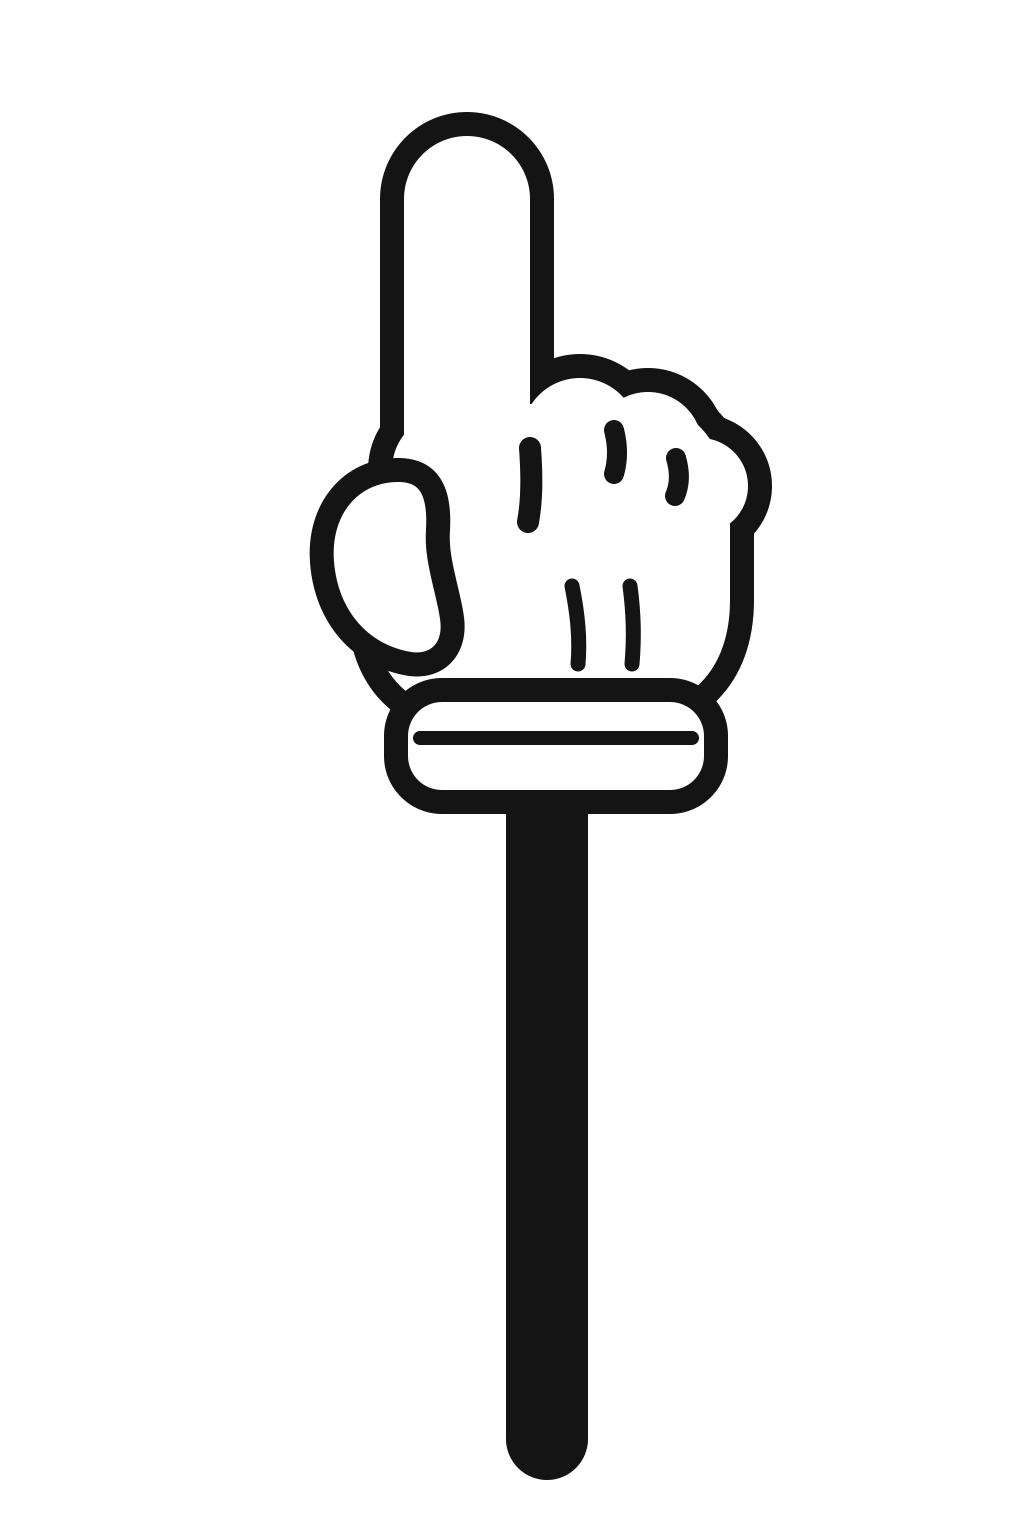
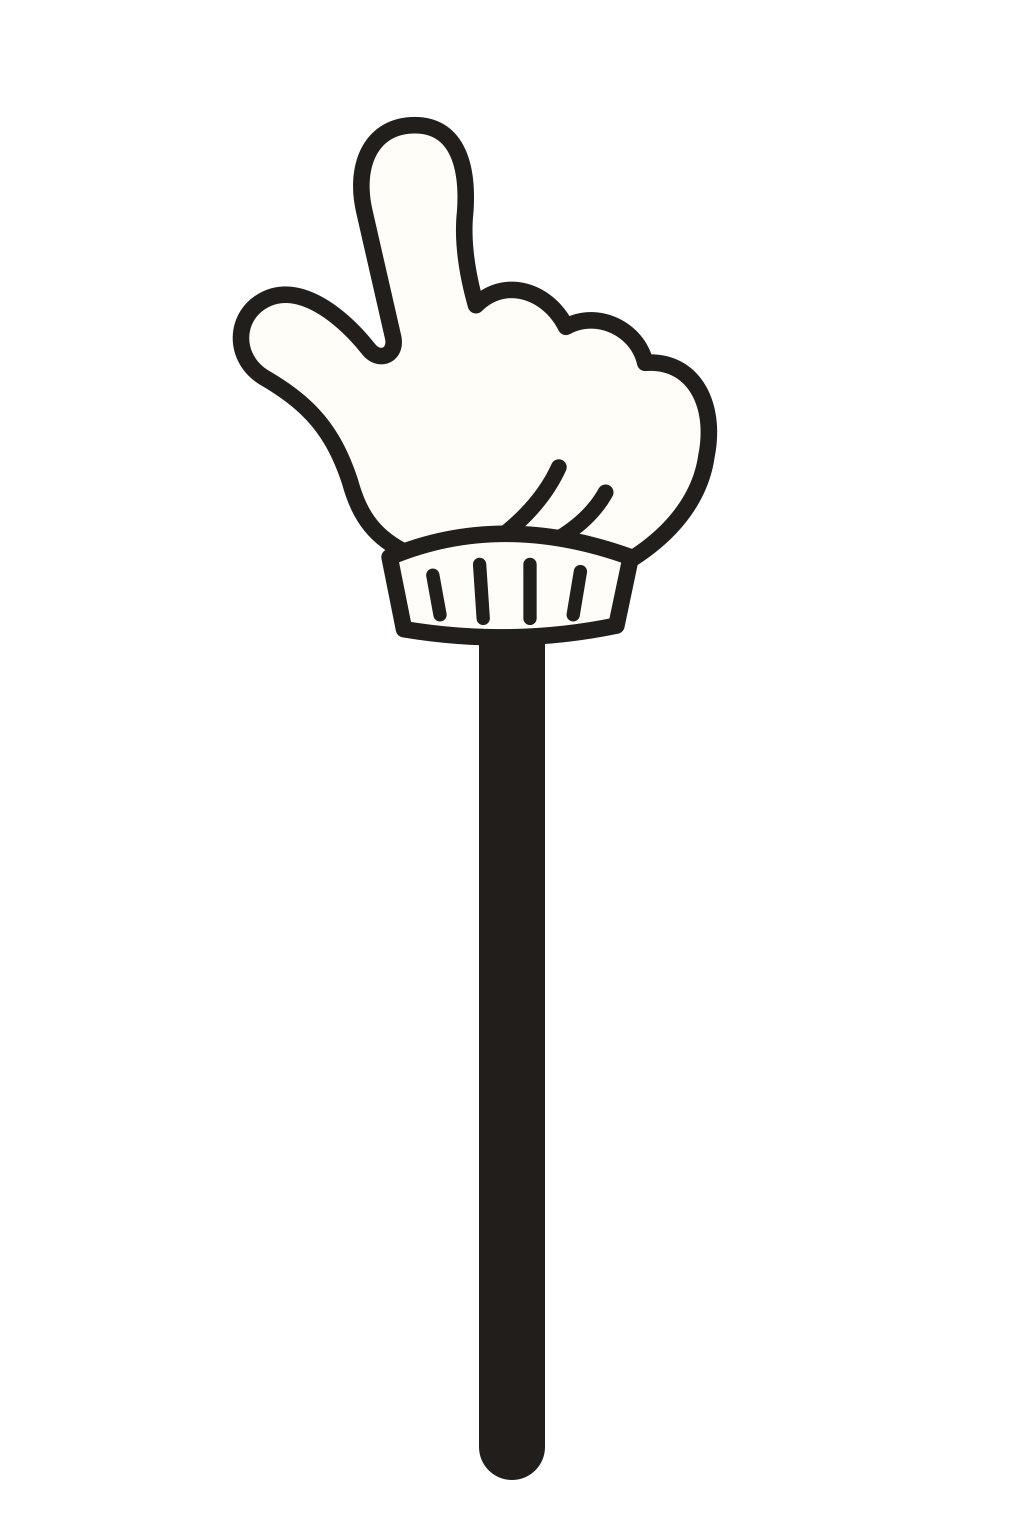
Use Jørgen's cartoon ink drawings for the hand, a cat paw and bursts
The Cartoon hand and a new Cat paw style are his drawings on a stick
(assets/hand_outline.svg, assets/hand_catpaw.svg). The tap burst now
steps through his five burst drawings (assets/burst_1-5.svg) as quick
taps build up, drawn behind the hand at a new angle each time with a
small spin and a light edge for dark screens.

Changed region(s): [[0.2188, 0.0625, 0.75, 0.9688]]

diff --git a/Sources/TinyHand/ArmView.swift b/Sources/TinyHand/ArmView.swift
@@ -40,7 +40,7 @@ final class ArmView: NSView {
     // Quick repeated taps build up: each one within `streakWindow` of the last goes up a level,
     // to `maxTapLevel`, for a deeper poke and a bigger burst.
     private static let streakWindow: TimeInterval = 0.45
-    private static let maxTapLevel = 3
+    private static let maxTapLevel = 4
     private var tapLevel = 0
     private var lastPressAt = Date.distantPast
     private var burstTurn: CGFloat = 0
@@ -72,10 +72,11 @@ final class ArmView: NSView {
         layer = root
         wantsLayer = true
         root.addSublayer(ink.layer)
+        // Bursts sit behind the hand so the finger stays on top of them.
+        root.addSublayer(burstLayer)
         root.addSublayer(group)
 
         root.addSublayer(dotLayer)
-        root.addSublayer(burstLayer)
         rodFade.colors = [CGColor(gray: 0, alpha: 0), CGColor(gray: 0, alpha: 1)]
 
         group.masksToBounds = false
@@ -137,7 +138,7 @@ final class ArmView: NSView {
         let now = Date()
         tapLevel = now.timeIntervalSince(lastPressAt) < ArmView.streakWindow ? min(tapLevel + 1, ArmView.maxTapLevel) : 0
         lastPressAt = now
-        pressAmount = 1 + 0.3 * CGFloat(tapLevel)
+        pressAmount = 1 + 0.25 * CGFloat(tapLevel)
     }
 
     func aim(cursor: CGPoint) {
@@ -228,68 +229,51 @@ final class ArmView: NSView {
         CATransaction.commit()
     }
 
-    /// Short lines burst out from the fingertip, away from the hand, and fade. Each burst sits at a
-    /// new angle and spins a little; quick repeated taps make it bigger, busier and longer.
+    /// The burst drawings, one per level of quick repeated taps.
+    private static let burstImages: [CGImage] = (1...5).compactMap { HandAsset.loadImage("burst_\($0)") }
+
+    /// A burst flashes out from the fingertip and fades. Each one sits at a new angle and spins a
+    /// little; quick repeated taps step through bigger, busier drawings.
     func burst() {
-        guard let tip = tip else {
+        guard let tip = tip, !ArmView.burstImages.isEmpty else {
             return
         }
-        let level = CGFloat(tapLevel)
+        let level = min(tapLevel, ArmView.burstImages.count - 1)
         let handPts = handLenFrac * bounds.height
-        let radius = handPts * (style == .laser ? 0.22 : 0.34) * (1 + 0.25 * level)
-        let width = max(2, handPts * 0.026) * (1 + 0.18 * level)
-        // Leave a gap where the finger is, pointing back toward the grip.
-        let gap: CGFloat = style == .laser ? 0 : 1.9
-        let back = gripPoint.map { atan2($0.y - tip.y, $0.x - tip.x) } ?? -.pi / 2
-        let count = (style == .laser ? 10 : 8) + 2 * tapLevel
-        let span = 2 * .pi - gap
-        burstTurn = tapLevel == 0 ? CGFloat.random(in: 0..<1) : (burstTurn + 0.38).truncatingRemainder(dividingBy: 1)
-        let path = CGMutablePath()
-        func ray(_ angle: CGFloat, _ inner: CGFloat, _ outer: CGFloat) {
-            path.move(to: CGPoint(x: inner * cos(angle), y: inner * sin(angle)))
-            path.addLine(to: CGPoint(x: outer * cos(angle), y: outer * sin(angle)))
-        }
-        for i in 0..<count {
-            let step = (CGFloat(i) + (gap == 0 ? burstTurn : 0.25 + 0.5 * burstTurn)) / CGFloat(count)
-            let angle = back + gap / 2 + span * step + CGFloat.random(in: -0.08...0.08)
-            ray(angle, radius * CGFloat.random(in: 0.5...0.62), radius * CGFloat.random(in: 0.88...1.06))
-            // From the third quick tap, short ticks fill in further out between the main lines.
-            if tapLevel >= 2 && (gap == 0 || i < count - 1) {
-                let between = angle + span / CGFloat(count) / 2
-                ray(between, radius * 1.08, radius * CGFloat.random(in: 1.22...1.32))
-            }
-        }
+        let side = handPts * (style == .laser ? 0.7 : 1.05) * (1 + 0.16 * CGFloat(level))
+        burstTurn = level == 0 ? CGFloat.random(in: 0..<(2 * .pi)) : burstTurn + 0.9
 
-        let lines = CAShapeLayer()
-        lines.path = path
-        lines.fillColor = nil
-        lines.strokeColor = ink.color
-        lines.lineWidth = width
-        lines.lineCap = .round
-        lines.position = tip
-        lines.opacity = 0
+        let flash = CALayer()
+        flash.contents = ArmView.burstImages[level]
+        flash.contentsScale = window?.backingScaleFactor ?? 2
+        flash.bounds = CGRect(x: 0, y: 0, width: side, height: side)
+        flash.position = tip
+        flash.transform = CATransform3DMakeRotation(burstTurn, 0, 0, 1)
+        flash.opacity = 0
+        // A soft light edge keeps the dark ink readable on dark screens.
+        flash.shadowColor = CGColor(gray: 1, alpha: 1)
+        flash.shadowOpacity = 0.55
+        flash.shadowRadius = 1.5
+        flash.shadowOffset = .zero
 
         let grow = CABasicAnimation(keyPath: "transform.scale")
-        grow.fromValue = 0.6
-        grow.toValue = 1.35 + 0.12 * level
+        grow.fromValue = 0.55
+        grow.toValue = 1.15 + 0.08 * CGFloat(level)
         let spin = CABasicAnimation(keyPath: "transform.rotation.z")
-        spin.fromValue = 0
-        spin.toValue = (tapLevel % 2 == 0 ? 1 : -1) * (0.22 + 0.08 * level)
-        let thin = CABasicAnimation(keyPath: "lineWidth")
-        thin.fromValue = width
-        thin.toValue = width * 0.45
+        spin.fromValue = burstTurn
+        spin.toValue = burstTurn + (level % 2 == 0 ? 1 : -1) * (0.2 + 0.07 * CGFloat(level))
         let fade = CAKeyframeAnimation(keyPath: "opacity")
         fade.values = [1, 1, 0]
-        fade.keyTimes = [0, 0.45, 1]
+        fade.keyTimes = [0, 0.5, 1]
         let group = CAAnimationGroup()
-        group.animations = [grow, spin, thin, fade]
-        group.duration = 0.28 + 0.05 * Double(tapLevel)
+        group.animations = [grow, spin, fade]
+        group.duration = 0.26 + 0.05 * Double(level)
         group.timingFunction = CAMediaTimingFunction(name: .easeOut)
 
         CATransaction.begin()
-        CATransaction.setCompletionBlock { lines.removeFromSuperlayer() }
-        burstLayer.addSublayer(lines)
-        lines.add(group, forKey: "burst")
+        CATransaction.setCompletionBlock { flash.removeFromSuperlayer() }
+        burstLayer.addSublayer(flash)
+        flash.add(group, forKey: "burst")
         CATransaction.commit()
     }
 

diff --git a/Sources/TinyHand/PointerStyle.swift b/Sources/TinyHand/PointerStyle.swift
@@ -25,6 +25,7 @@ struct PointerStyle: Hashable {
     private static let builtIn: [(id: String, title: String, ink: CGColor)] = [
         ("lavender", "Lavender toy", Ink.purple),
         ("outline", "Cartoon", Ink.red),
+        ("catpaw", "Cat paw", Ink.hex(0xF0561D)),
         ("glove", "Cursor glove", Ink.purple),
         ("coral", "Coral vinyl", Ink.red),
         ("plush", "Plush", Ink.hex(0x2F86F0)),
@@ -324,7 +325,7 @@ struct HandAsset {
         )
     }
 
-    private static func loadImage(_ name: String) -> CGImage? {
+    static func loadImage(_ name: String) -> CGImage? {
         let exeDir = URL(fileURLWithPath: CommandLine.arguments[0]).deletingLastPathComponent()
         var urls: [URL] = []
         urls.append(CustomHands.directory.appendingPathComponent("\(name).png"))

diff --git a/Sources/TinyHand/SettingsView.swift b/Sources/TinyHand/SettingsView.swift
@@ -976,7 +976,7 @@ private struct AppearancePage: View {
                 .fixedSize()
                 .focusable(false)
             }
-            Row("Burst on each tap", detail: "Short lines in the ink colour flash out from the fingertip.") {
+            Row("Burst on each tap", detail: "A cartoon burst flashes at the fingertip. Quick repeated taps build it up.") {
                 Toggle("", isOn: model.binding({ Preferences.tapBurst }, { Preferences.tapBurst = $0 }))
                     .toggleStyle(.switch).labelsHidden().focusable(false)
             }

diff --git a/README.md b/README.md
@@ -32,7 +32,7 @@ Open `TinyHand.dmg`, drag TinyHand to Applications and allow **Accessibility** w
 | **Esc** | Clear everything and turn the pointer off |
 
 While the pointer is on, a small toolbar at the bottom of the screen lets you pick one of
-37 hands or a laser dot, mute the tap sound, or exit.
+38 hands or a laser dot, mute the tap sound, or exit.
 
 ## Automation
 
